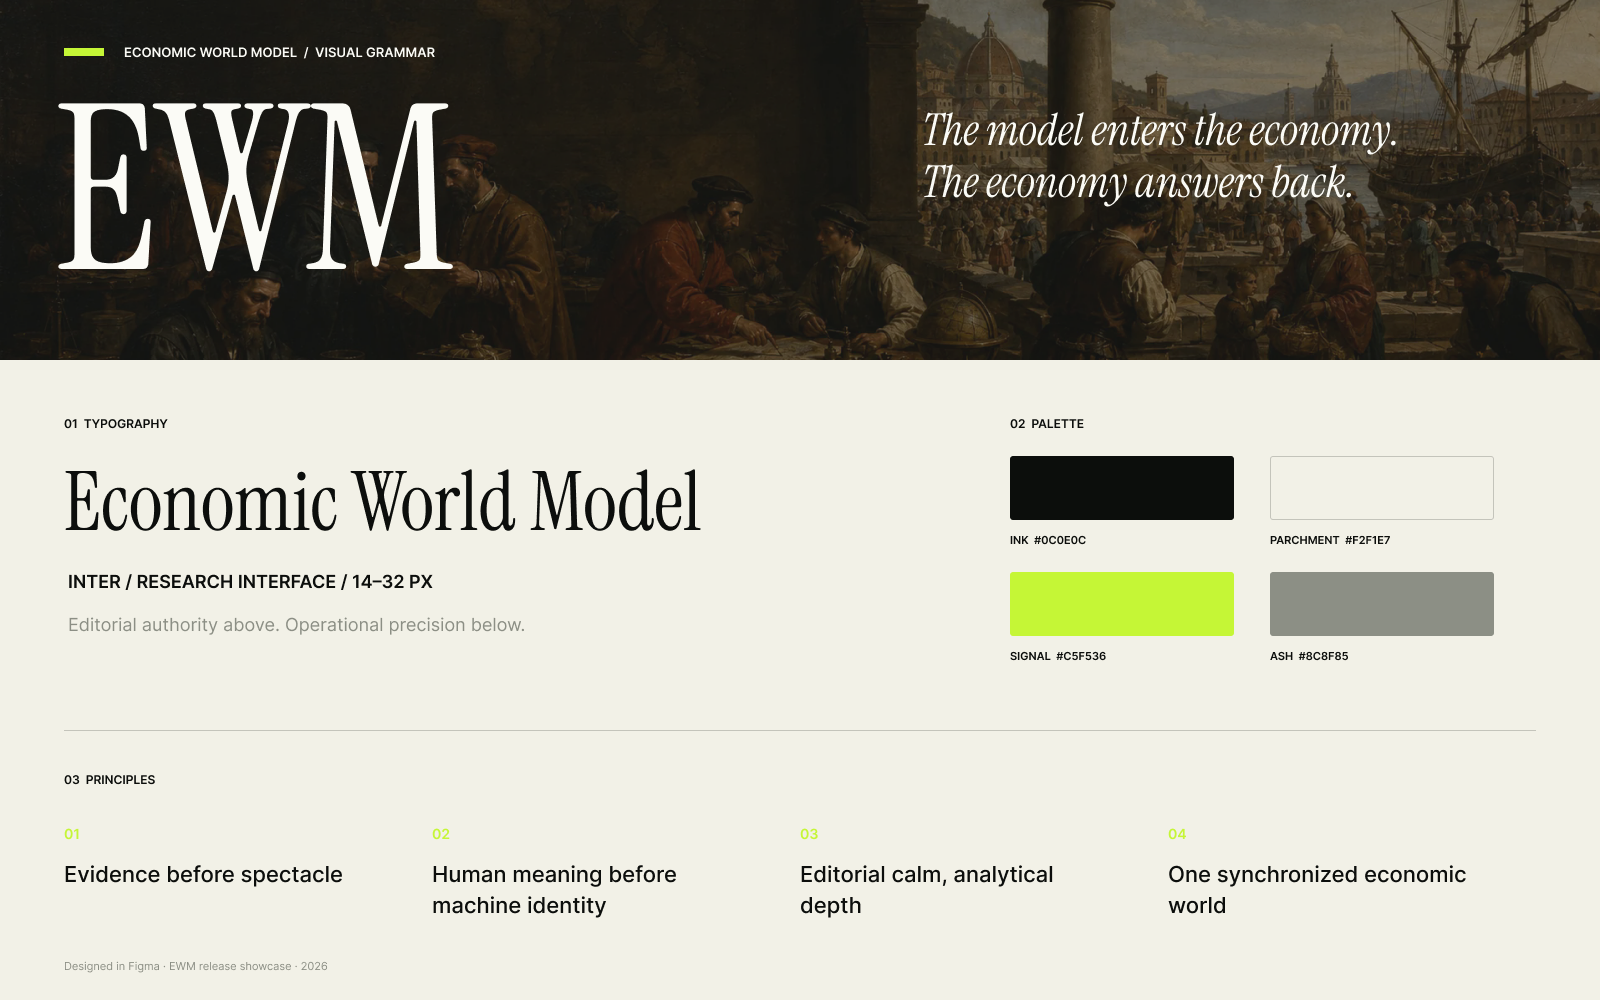
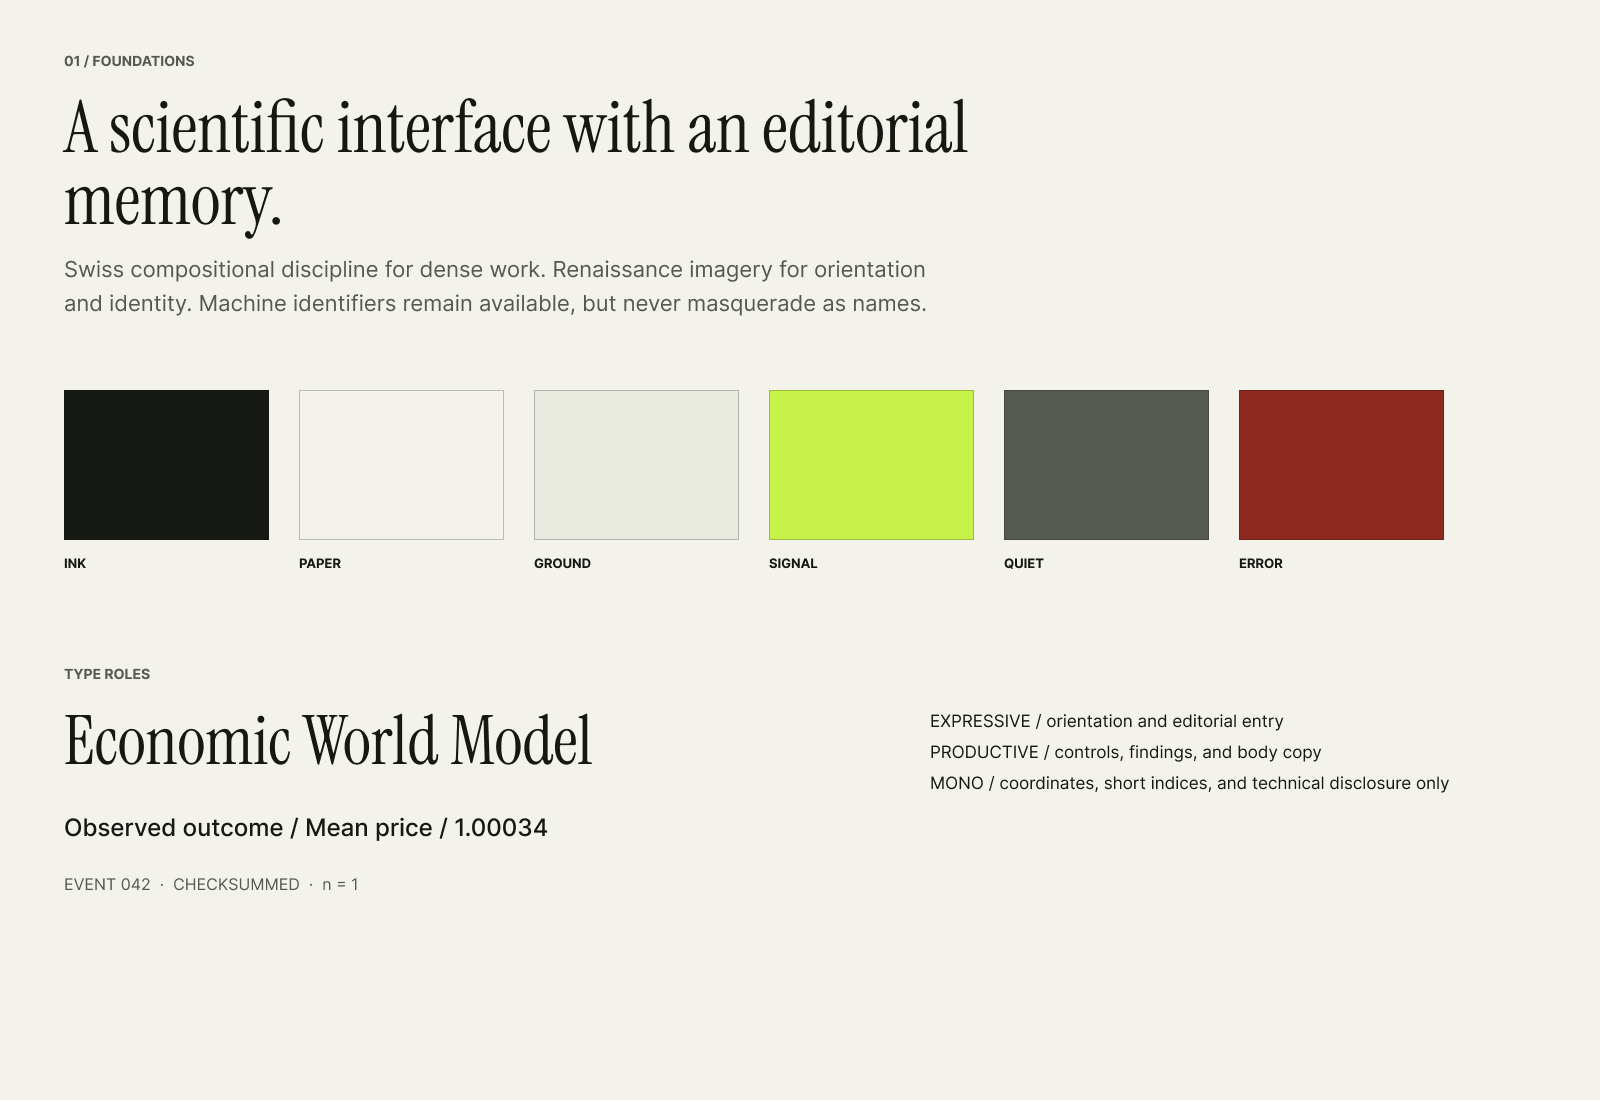
docs(design): publish editable EWM visual system

diff --git a/docs/design/ewm-visual-system.md b/docs/design/ewm-visual-system.md
@@ -1,0 +1,122 @@
+# Economic World Model visual system
+
+**Document version:** 1.0  
+**Last reviewed:** 2026-08-29  
+**Editable source:** [Economic World Model design file](https://www.figma.com/design/G7201TNCRNk5AMdRMexznH)
+
+The visual system joins a research instrument with an editorial publication. Swiss typographic
+discipline keeps dense evidence legible. Original Renaissance-inspired economic scenes give each
+entry point a memorable world, while restrained ink, parchment, and evidence-lime surfaces preserve
+the seriousness of the underlying claims.
+
+## Editable Figma structure
+
+| Page or frame | Figma node | Contents |
+|---|---:|---|
+| Foundations | `5:19` | Color, type, spacing, labels, evidence states, and identity disclosure |
+| Editorial cards | `6:7`, `6:16`, `6:25`, `6:34` | Four reusable image-first article card variants |
+| Renaissance series | `5:41` | Four distinct image and typography compositions |
+| Workflow storyboard | `6:45` | Research question through bounded conclusion |
+| Product screens | `7:2` | Six exact release captures from the verified local run |
+| README hero | `6:113` | Repository lead image |
+| Open Graph | `6:120` | Social preview composition |
+
+The product-screen page is available directly at [node `7:2`](https://www.figma.com/design/G7201TNCRNk5AMdRMexznH?node-id=7-2).
+
+## Design grammar
+
+### Typography
+
+- Instrument Serif carries product titles, large editorial statements, and economic questions.
+- Inter carries controls, body copy, evidence, units, and compact metadata.
+- Uppercase micro-labels name stage, type, and status. They do not replace a readable title.
+- Tabular numerals align measured values. Long machine identifiers never occupy the primary reading
+  path.
+
+### Color and surface
+
+| Token role | Use |
+|---|---|
+| Parchment | Primary canvas and readable neutral field |
+| Ink | Main text and structural rules |
+| Vermilion | Active navigation, editorial emphasis, and selected world |
+| Evidence lime | Verified or passing evidence only |
+| Muted stone | Secondary surfaces and unavailable states |
+| Signal blue | Spatial and analytical orientation |
+
+Evidence color is semantic. Decorative artwork never changes the evidence classification of a
+claim.
+
+### Editorial card anatomy
+
+Each image-first card contains an indexed eyebrow, a strong image field, one short title, one line of
+meaningful context, and an optional state marker. A selected card uses border, contrast, and label
+together. Image, title, and metadata align to one grid. Cards may vary in scale but not in reading
+order.
+
+The supplied AI research article reference informed the horizontal rhythm, image-led hierarchy,
+numbered article language, and serif-to-sans contrast. EWM adapts those patterns for economic worlds,
+evidence, and investigations instead of copying a publication carousel.
+
+### Identity disclosure
+
+Readable labels lead every view, for example `Households`, `FX spot market`, and `Training run 01`.
+Short identity suffixes appear only when they disambiguate otherwise identical records. Full hashes,
+digests, object keys, source locators, and event identifiers remain available under `Technical
+details` so an audit loses no precision.
+
+## Source influences
+
+The system synthesizes principles from five official design references:
+
+- [Carbon type sets](https://carbondesignsystem.com/elements/typography/type-sets/) for a finite,
+  role-based typographic scale and dense product legibility.
+- [Singapore Government Design System cards](https://www.designsystem.tech.gov.sg/components/card)
+  and [token architecture](https://www.designsystem.tech.gov.sg/foundations/token-architecture) for
+  predictable card anatomy and semantic token layers.
+- [Coinbase MediaCard](https://cds.coinbase.com/components/cards/MediaCard/) for image-led content
+  with a clear interactive boundary.
+- [Geist typography](https://vercel.com/geist/typography) for compact product text, balanced
+  hierarchy, and readable technical surfaces.
+- [Swiss Typefaces, Suisse](https://www.swisstypefaces.com/fonts/suisse/) for neutral Swiss structure
+  paired with expressive editorial scale.
+
+These are influence references, not source code or asset dependencies. The shipped workbench makes
+no remote design-system requests.
+
+## Artwork provenance
+
+All four scenes were generated for EWM on 2026-08-29 with OpenAI's built-in image generation tool.
+They are original Renaissance-inspired scenes, not reproductions of historical paintings. The
+prompts prohibited text, logos, watermarks, recognizable people, named-artist imitation, and copying
+an existing painting.
+
+| Tracked asset | Generation ID | Prompt direction | Product role |
+|---|---|---|---|
+| `workbench/src/assets/ewm-ledger-florence-v1.webp` | `exec-5334be2d-9b64-4885-a2e5-af6691191752` | Florentine counting house, communal ledgers, balances, trade routes, warm palazzo light | Economy and accounting |
+| `workbench/src/assets/ewm-exchange-venice-v1.webp` | `exec-5c94bf53-55d1-40a8-8a2b-b14b52dd7d65` | Venetian maritime exchange, currencies, contracts, maps, shipping flows, silvery lagoon dawn | Markets and networks |
+| `workbench/src/assets/ewm-learning-workshop-v1.webp` | `exec-e9878349-f07f-42f2-85f6-eb85c1b4cb72` | Renaissance workshop, mechanical market model, instruments, feedback, collective revision | Learning and co-evolution |
+| `workbench/src/assets/ewm-civic-market-v1.webp` | `exec-df5233af-53ae-4ce4-8a4b-9847234e1232` | Tuscan civic market, households, artisans, lenders, officials, institutions and exchange | World and institutions |
+
+The editable image fills and overlaid type compositions are in the Figma Renaissance Series frame.
+The committed [series export](../assets/workbench/figma-renaissance-series.png) provides a durable
+repository preview.
+
+## Release workflow
+
+The release story is an investigation, not a section tour:
+
+1. Ask whether the FX economy cleared without rejected orders or material accounting drift.
+2. Scope the declared agents, market, mechanisms, and accounting boundary.
+3. Verify ordered decisions, clearing, and settlement events.
+4. Measure price, volume, rejected orders, and accounting residuals.
+5. Test whether behavior generated data that trained and redeployed a model.
+6. Separate inner execution evidence from an unavailable DDGE certificate.
+7. Audit the claim, source, classification, limitations, and declared lineage.
+8. Investigate the same ontology through bounded 2D and semantic 3D neighborhoods.
+9. Inspect only explicitly sourced geographic anchors and their uncertainty.
+10. Conclude that execution passed inside this synthetic runtime while adaptive model closure remains
+    unproven.
+
+The screenshots, capture manifest, demo configuration, GIF, and MP4 are derived from the same
+verified run and recorded in `docs/assets/workbench`.
